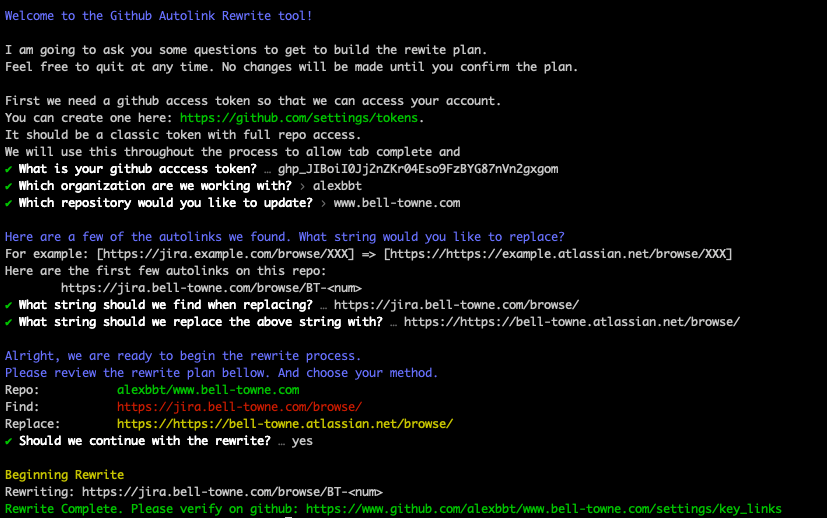
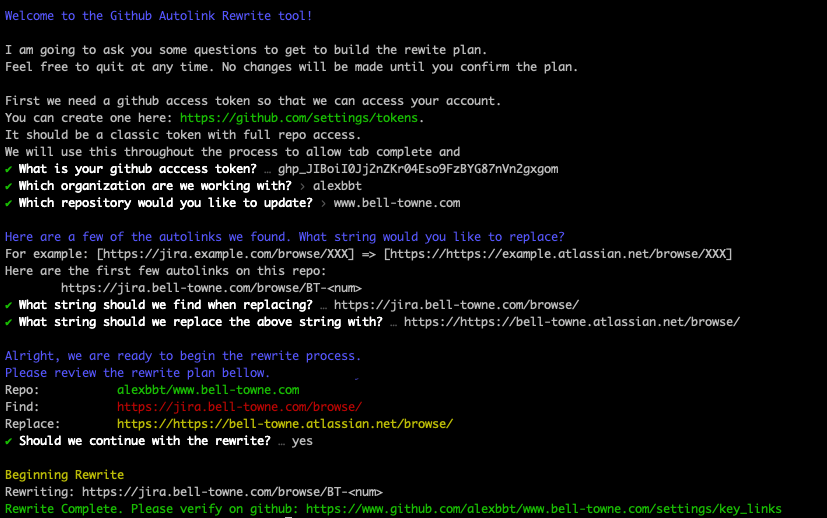
Update examples

diff --git a/src/github-autolink-rewrite.js b/src/github-autolink-rewrite.js
@@ -42,7 +42,7 @@ class GithubAutolinkRewrite {
 
     console.log();
     console.log(color.blueBright('Alright, we are ready to begin the rewrite process.'));
-    console.log(color.blueBright('Please review the rewrite plan bellow. And choose your method.'));
+    console.log(color.blueBright('Please review the rewrite plan bellow.'));
     console.log(`Repo: \t\t${color.green(`${org}/${repo}`)}\nFind: \t\t${color.red(find)}\nReplace: \t${color.yellow(replace)}`);
 
     const { good } = await prompts({

diff --git a/README.md b/README.md
@@ -60,7 +60,7 @@ Here are the first few autolinks on this repo:
 ✔ What string should we replace the above string with? … https://https://bell-towne.atlassian.net/browse/
 
 Alright, we are ready to begin the rewrite process.
-Please review the rewrite plan bellow. And choose your method.
+Please review the rewrite plan bellow.
 Repo: 		alexbbt/www.bell-towne.com
 Find: 		https://jira.bell-towne.com/browse/
 Replace: 	https://https://bell-towne.atlassian.net/browse/
